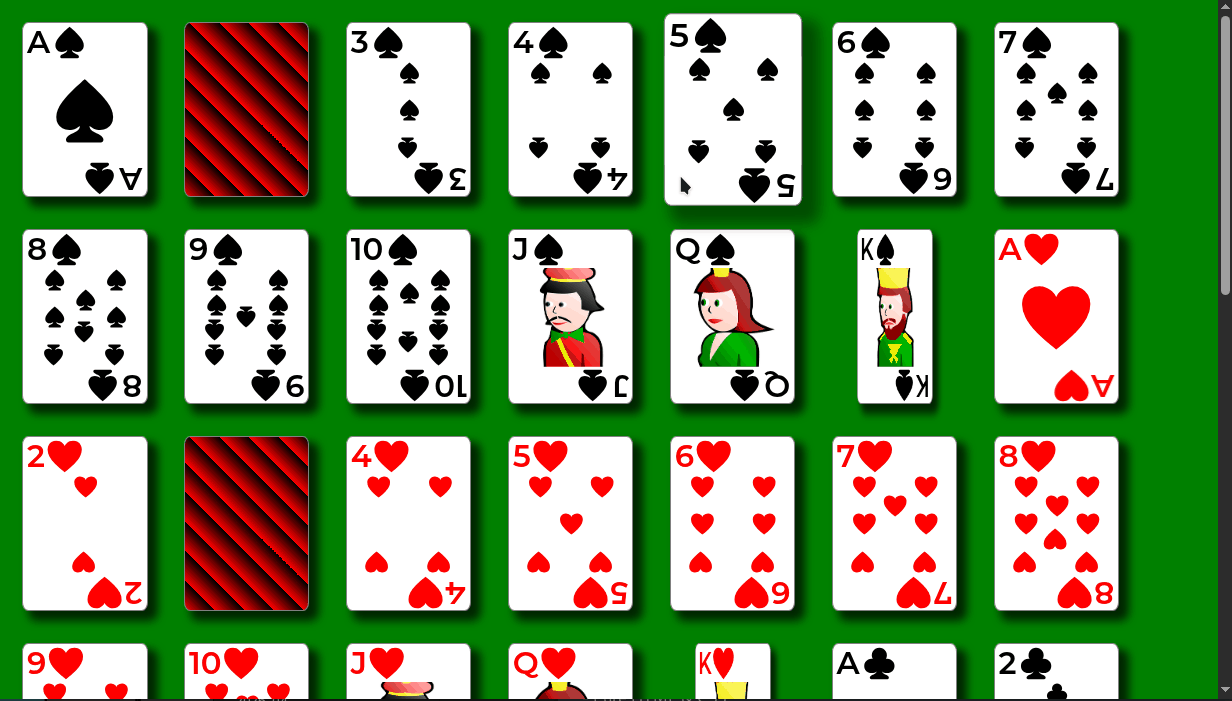
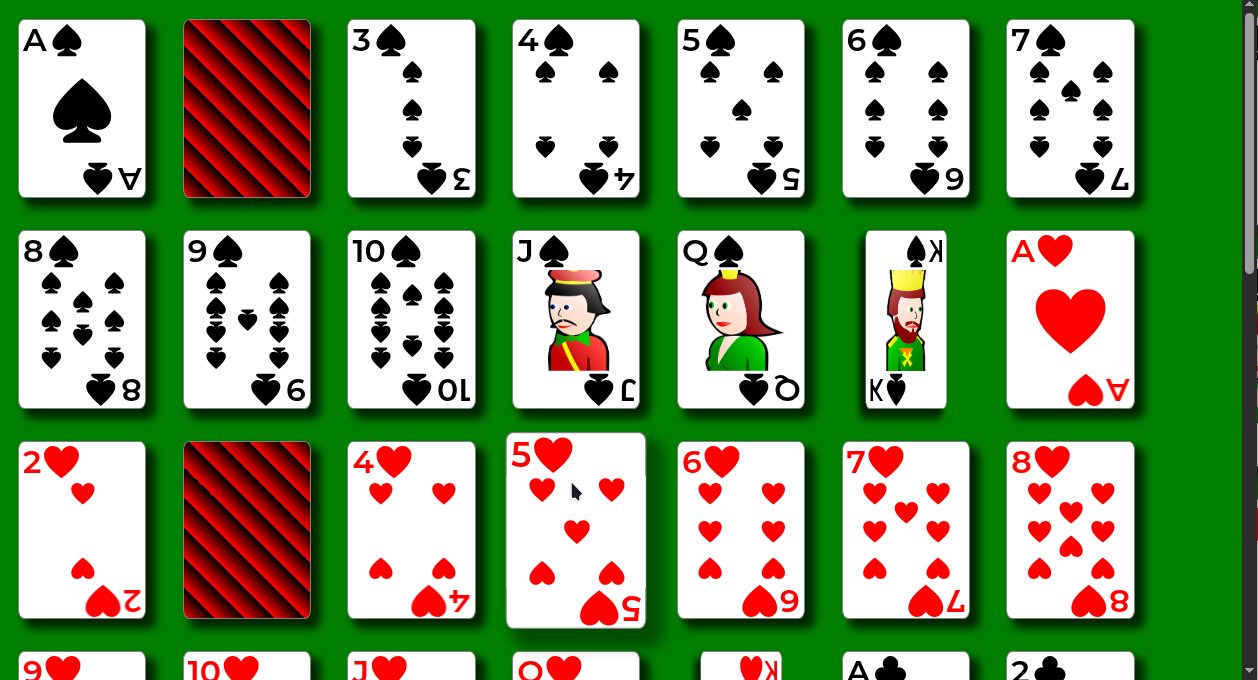
fix: correct alignment of rotated items

diff --git a/index.css b/index.css
@@ -106,7 +106,7 @@ body {
   align-items: center;
 
   & :last-child {
-    transform: rotate(180deg);
+    transform: scale(1, -1);
   }
 }
 
@@ -117,9 +117,9 @@ body {
   justify-items: center;
 }
 
-:is(.four, .five) :nth-child(n+3) {transform: rotate(180deg);}
+:is(.four, .five) :nth-child(n+3) {transform: scale(1, -1);}
 :is(.six, .seven, .eight, .nine, .ten) :nth-child(n+5) {
-  transform: rotate(180deg);
+  transform: scale(1, -1);
 }
 
 :is(.four, .five) :is(.symbol:nth-child(3), .symbol:nth-child(4)),
@@ -139,7 +139,7 @@ body {
 }
 
 .nine .symbol:last-child {
-  transform: translate(-50%,-50%) rotate(180deg);
+  transform: translate(-50%,-50%) scale(1, -1);
 }
 
 :is(.seven, .eight) .symbol:last-child {top: 32%;}
@@ -148,14 +148,14 @@ body {
   position: absolute;
   top: 65%;
   left: 50%;
-  transform: translate(-50%,-50%) rotate(180deg);
+  transform: translate(-50%,-50%) scale(1, -1);
 }
 
 .ten .symbol:nth-child(9) {
   position: absolute;
   top: 75%;
   left: 50%;
-  transform: translate(-50%,-50%) rotate(180deg);
+  transform: translate(-50%,-50%) scale(1, -1);
 }
 
 .ten .symbol:last-child {top: 25%;}
